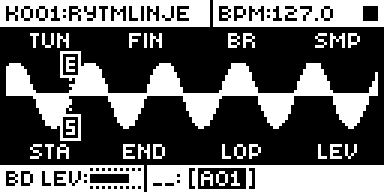
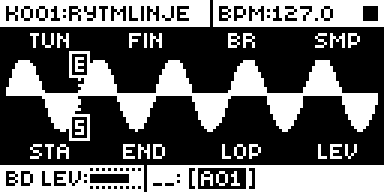
Pipo Loop 0.1.1-experimental: no click from the loop's far end at PIPO turns
A voice on STA's frame going down gets stock's plain window, with nothing to
mirror: it now turns on that block. A voice just turned at END has a window
crossing END, which the mirror took for STA's: it now mirrors only near STA.
Screens recaptured on PP17.

Changed region(s): [[0.0, 0.25, 1.0, 0.75]]

diff --git a/sdk/analog-rytm-mkii/modules/_submissions/pipo-loop/src/pipo.c b/sdk/analog-rytm-mkii/modules/_submissions/pipo-loop/src/pipo.c
@@ -33,6 +33,7 @@
 #define IDX_LOP 23
 #define VREC(v) (VOICE_REC_AT + (v) * 92)
 #define VPOS(v) (*(volatile int *)(VREC(v) + 4))
+#define VTOP(v) (*(volatile int *)(VREC(v) + 8))   // going down, stock's prefetch keeps the position here
 #define VFRAMES(v) (*(volatile unsigned *)(VREC(v) + 20))
 #define OWNER(v) (*(volatile unsigned char *)(VOICE_OWNER_AT + (v)))
 #define TRIG_NEXT (*(volatile unsigned *)TRIG_NEXT_AT)   // one bit a voice, as stock's prefetch tests it
@@ -154,6 +155,13 @@ void pipo_loop_audio(void)
         }
         p->up = p->fwd ^ p->back;
         if ((EFF(t, IDX_LOP) >> 8) == LOP_PIPO && p->hi - p->lo >= MIN_SPAN) {
+            if (!p->up && pos == p->lo && !(trig & (1u << v))) { // on lo stock's window does not wrap, so
+                pos = 2 * p->lo - 1 - pos + TURN_LAG; // nothing can be mirrored: turn here, as for a pass of lo
+                VPOS(v) = pos;
+                p->last_pos = pos;
+                p->back ^= 1;
+                p->up = 1;
+            }
             p->arm = p->up ? ARM_UP : ARM_DOWN;
             p->a_lo = p->lo;             // a block on, the turn is judged against this loop even
             p->a_hi = p->hi;             // if STA or END (an LFO, a turn) has moved since
@@ -203,6 +211,8 @@ void *pipo_loop_mirror(int v, int which, int ws_al, int wrap_al, int len)
     } else {                         // below hi's window index: lo, lo + 1, ... read backward
         int nh = hi - ws_al;
         if (nh <= 0 || nh > MIRROR)
+            return 0;
+        if (VTOP(v) >= lo + MIRROR)      // just turned at hi: this window crosses hi, not lo
             return 0;
         for (i = 0; i < len; i++) {
             n = i < nh ? lo + (nh - 1 - i) : lo + (i - nh);

diff --git a/sdk/analog-rytm-mkii/modules/_submissions/pipo-loop/TESTING.md b/sdk/analog-rytm-mkii/modules/_submissions/pipo-loop/TESTING.md
@@ -17,6 +17,7 @@ Everything below was observed in rytm-emu on the named build, except the Hardwar
[1 lines of base64/hex data omitted]
 - Diagnostic PD05 (PC11's code plus an on-screen readout, branch `diag/pipo-loop`; not for release): `.syx`
[2 lines of base64/hex data omitted]
 - Earlier builds: PP03 and PC01 (before the code review), PP05 and PC03 (after it), PP06 and PC04 (the
   three-position switch), PP07 and PC05 (zero snap on the sound), PP08 and PC06 (locks), PP09 and PC07 (exact turns), PP10, PC08 and PD02 (snap holds), PP11, PC09 and PD03 (code review), PP12, PC10 and PD04 (LOP's feel);
   each passed the battery below. PP10 to PP13 gave the same results as PP09 on every row of it.
@@ -25,6 +26,28 @@ Everything below was observed in rytm-emu on the named build, except the Hardwar
   BD with LOP ON on the SAMPLE page (the setup in [media/capture.json](media/capture.json)). Audio is
   dtboot's `--wav` with `--every 20M` (longer report intervals keep only about a second of audio).
   Effective LOP is read from the track's effective parameter word (`DTBOOT_PEEK`).
+
+## Emulator, 0.1.1 (2026-10-31)
+
+0.1.0 could play about 48 frames from the far end of the loop at a turn, a click, mostly at low pitch. Two causes, read in stock's reverse prefetch:
+
+- A voice going down that starts a block exactly on the loop's low frame gets a window with no wrap, near the high end, so there is nothing to mirror. 0.1.1 turns the voice on that block, as it does for a pass of the low frame. Below one frame a block a move back above it would never let the voice past.
+- A voice just turned at the high end can sit above it, so its window crosses the high end. The mirror took that for the low end's window and filled it with the low end's frames. 0.1.1 mirrors that way only for a voice within 160 frames of the low end.
+
+Builds: PP15 is 0.1.0 and PP16 and PP17 are 0.1.1, each alone on the vendored core-ar2 0.7, from origin/main 00ecaf52. rytm-emu, RAMP on BD, step above 100 between samples counted once per 64 frames, about 30 s after one hit.
+
+| Check | PP15 (0.1.0) | PP16 (0.1.1) |
+| --- | --- | --- |
+| PIPO, TUN -24, END 34 (6,800 frames), FIN at 0 | 18 clicks: 18 at END, 0 at STA | 0 |
+| The same, FIN raised in three steps (voice lands on other frames) | 18/0, 23/5, 25/7 at END/STA | 0, 0, 0 |
+| Output range of those runs | -6,741 to -2,451 | -6,421 to -2,768, the loop's own |
+| PIPO, TUN +24 | 0 clicks | 0, output differs |
+| PIPO, END below STA | 2 clicks | 0 |
+| LOP ON; LOP OFF; PIPO at TUN 0 | | sample-identical to PP15 (SHA-256 of channel 0) |
+
+PP17, the final source, gave 0 clicks on the first two rows. Rates below one frame a block need a scratch build that forces the voice's rate word, never released: on a 7,100-frame loop at 1/64x and 1/32x, forward and reverse, the voice reached both ends with no stall.
+
+Not tested on a unit. 0.1.1 has not been flashed.
 
 ## Emulator, 0.1.0 (2026-10-27)
 

diff --git a/sdk/analog-rytm-mkii/modules/_submissions/pipo-loop/README.md b/sdk/analog-rytm-mkii/modules/_submissions/pipo-loop/README.md
@@ -1,6 +1,6 @@
 # Pipo Loop
 
-An Analog Rytm MKII mod by npp1993 (Nathaniel Pavel). Version 0.1.0-experimental, OS 1.74 with core-ar2 0.7.
+An Analog Rytm MKII mod by npp1993 (Nathaniel Pavel). Version 0.1.1-experimental, OS 1.74 with core-ar2 0.7.
 
 ## Overview
 
@@ -67,7 +67,7 @@ Use a build containing Pipo Loop, select a track whose sound plays a sample, and
 
 ## Tests and measurements
 
-rytm-emu (c5732f0) on OS 1.74, build PP13, with generated ramp and sine samples on BD: the value steps OFF/ON/PIPO and reads PIPO; ON plays stock's forward loop and PIPO turns exactly at STA and END from TUN -24 to +24; switching ON to PIPO mid-note; FUNC + STA and END stepping crossing by crossing (sound, lock editor, per-trig and live recording), holding at the sample's edges, passing and sharing crossings; p-locks and scene locks of PIPO; two voices at once; retrig; persistence through power-off; stock 1.74 loading the saved PIPO state as a normal loop; the S and E labels. On a unit (author's reports, test builds up to PD05): the switch, PIPO, zero snap on the sound and on held trigs' locks, edges, passing and sharing, clean snapped LOP ON loops, the labels. CPU is a static estimate: about 0.1 % of an audio block with nothing looping and about 0.6 % with all eight voices in PIPO. See [TESTING.md](TESTING.md).
+rytm-emu on OS 1.74, builds PP16 and PP17 (0.1.1): at TUN -24 on a 6,800-frame loop, 18 to 32 clicks a run on 0.1.0, none on 0.1.1; LOP ON, LOP OFF and PIPO at TUN 0 sample-identical to 0.1.0. rytm-emu (c5732f0) on OS 1.74, build PP13, with generated ramp and sine samples on BD: the value steps OFF/ON/PIPO and reads PIPO; ON plays stock's forward loop and PIPO turns exactly at STA and END from TUN -24 to +24; switching ON to PIPO mid-note; FUNC + STA and END stepping crossing by crossing (sound, lock editor, per-trig and live recording), holding at the sample's edges, passing and sharing crossings; p-locks and scene locks of PIPO; two voices at once; retrig; persistence through power-off; stock 1.74 loading the saved PIPO state as a normal loop; the S and E labels. On a unit (author's reports, test builds up to PD05): the switch, PIPO, zero snap on the sound and on held trigs' locks, edges, passing and sharing, clean snapped LOP ON loops, the labels. CPU is a static estimate: about 0.1 % of an audio block with nothing looping and about 0.6 % with all eight voices in PIPO. See [TESTING.md](TESTING.md).
 
 ## Authorship and licences
 
@@ -75,4 +75,4 @@ Original code by npp1993 (Nathaniel Pavel), GPL-3.0-or-later ([LICENSE](LICENSE)
 
 ## Screens and audio
 
-Screenshots are rytm-emu captures of build PP13 ([media/capture.json](media/capture.json)), the zero-snap and label ones on a generated slow sine. No audio preview yet.
+Screenshots are rytm-emu captures of build PP17 ([media/capture.json](media/capture.json)), the zero-snap and label ones on a generated slow sine. No audio preview yet.
